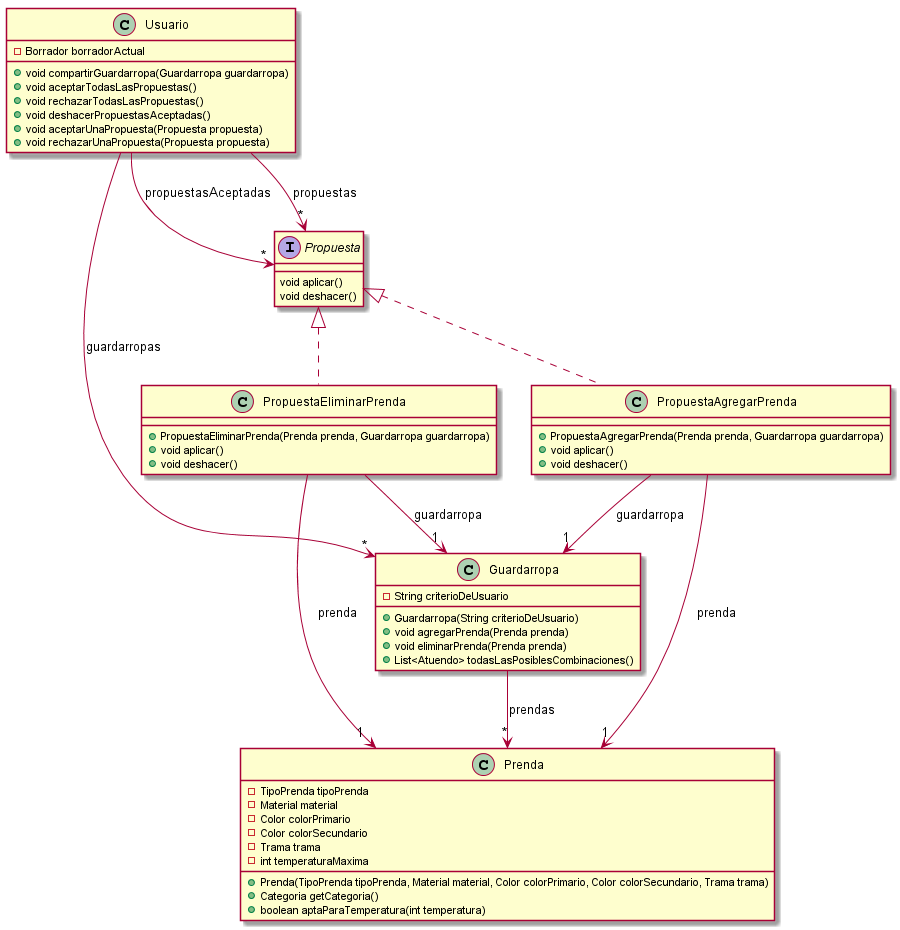
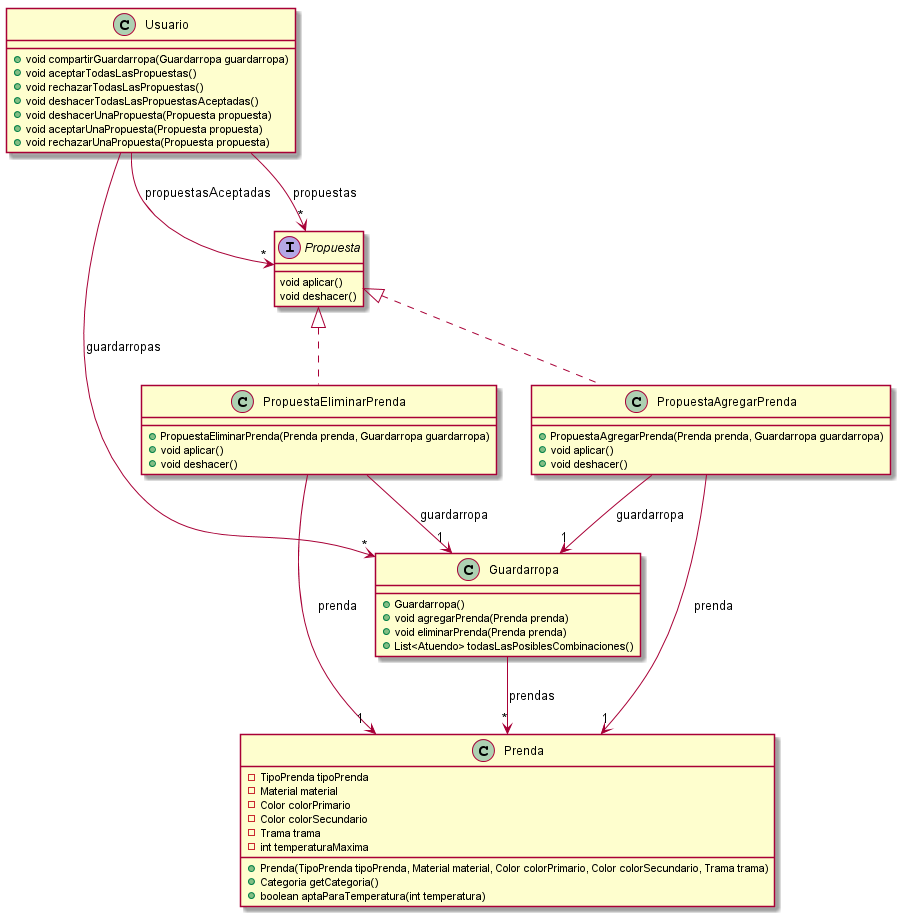
Actualizo diagrama

diff --git a/src/main/java/model/quintaIteracion/Diagrama.java b/src/main/java/model/quintaIteracion/Diagrama.java
@@ -6,60 +6,7 @@ public class Diagrama {
 
 /*
 @startuml
-class Guardarropa [[java:model.paraDiagrama.Guardarropa]] {
-	-String criterioDeUsuario
-	+Guardarropa(String criterioDeUsuario)
-	+void agregarPrenda(Prenda prenda)
-	+void eliminarPrenda(Prenda prenda)
-	+List<Atuendo> todasLasPosiblesCombinaciones()
-}
-class Prenda [[java:model.Prenda]] {
-}
-Guardarropa --> "*" Prenda : prendas
-interface Propuesta [[java:model.paraDiagrama.Propuesta]] {
-	void aplicar()
-	void deshacer()
-}
-class Prenda [[java:model.paraDiagrama.Prenda]] {
-	-TipoPrenda tipoPrenda
-	-Material material
-	-Color colorPrimario
-	-Color colorSecundario
-	-Trama trama
-	-int temperaturaMaxima
-	+Prenda(TipoPrenda tipoPrenda, Material material, Color colorPrimario, Color colorSecundario, Trama trama)
-	+Categoria getCategoria()
-	+boolean aptaParaTemperatura(int temperatura)
-}
-class PropuestaEliminarPrenda [[java:model.paraDiagrama.PropuestaEliminarPrenda]] {
-	+PropuestaEliminarPrenda(Prenda prenda, Guardarropa guardarropa)
-	+void aplicar()
-	+void deshacer()
-}
-class Prenda [[java:model.Prenda]] {
-}
-PropuestaEliminarPrenda --> "1" Prenda : prenda
-class Guardarropa [[java:model.quintaIteracion.Guardarropa]] {
-}
-PropuestaEliminarPrenda --> "1" Guardarropa : guardarropa
-interface Propuesta [[java:model.paraDiagrama.Propuesta]] {
-}
-Propuesta <|.. PropuestaEliminarPrenda
-class PropuestaAgregarPrenda [[java:model.paraDiagrama.PropuestaAgregarPrenda]] {
-	+PropuestaAgregarPrenda(Prenda prenda, Guardarropa guardarropa)
-	+void aplicar()
-	+void deshacer()
-}
-class Prenda [[java:model.Prenda]] {
-}
-PropuestaAgregarPrenda --> "1" Prenda : prenda
-class Guardarropa [[java:model.quintaIteracion.Guardarropa]] {
-}
-PropuestaAgregarPrenda --> "1" Guardarropa : guardarropa
-interface Propuesta [[java:model.paraDiagrama.Propuesta]] {
-}
-Propuesta <|.. PropuestaAgregarPrenda
-class Usuario [[java:model.paraDiagrama.Usuario]] {
+class Usuario [[java:model.quintaIteracion.Usuario]] {
 	+void compartirGuardarropa(Guardarropa guardarropa)
 	+void aceptarTodasLasPropuestas()
 	+void rechazarTodasLasPropuestas()
@@ -71,12 +18,64 @@ class Usuario [[java:model.paraDiagrama.Usuario]] {
 class Guardarropa [[java:model.quintaIteracion.Guardarropa]] {
 }
 Usuario --> "*" Guardarropa : guardarropas
-class Propuesta [[java:model.paraDiagrama.Propuesta]] {
+class Propuesta [[java:model.quintaIteracion.Propuesta]] {
 }
 Usuario --> "*" Propuesta : propuestas
-class Propuesta [[java:model.paraDiagrama.Propuesta]] {
+class Propuesta [[java:model.quintaIteracion.Propuesta]] {
 }
 Usuario --> "*" Propuesta : propuestasAceptadas
+class PropuestaAgregarPrenda [[java:model.quintaIteracion.PropuestaAgregarPrenda]] {
+	+PropuestaAgregarPrenda(Prenda prenda, Guardarropa guardarropa)
+	+void aplicar()
+	+void deshacer()
+}
+class Prenda [[java:model.prenda.Prenda]] {
+}
+PropuestaAgregarPrenda --> "1" Prenda : prenda
+class Guardarropa [[java:model.quintaIteracion.Guardarropa]] {
+}
+PropuestaAgregarPrenda --> "1" Guardarropa : guardarropa
+interface Propuesta [[java:model.quintaIteracion.Propuesta]] {
+}
+Propuesta <|.. PropuestaAgregarPrenda
+interface Propuesta [[java:model.quintaIteracion.Propuesta]] {
+	void aplicar()
+	void deshacer()
+}
+class PropuestaEliminarPrenda [[java:model.quintaIteracion.PropuestaEliminarPrenda]] {
+	+PropuestaEliminarPrenda(Prenda prenda, Guardarropa guardarropa)
+	+void aplicar()
+	+void deshacer()
+}
+class Prenda [[java:model.prenda.Prenda]] {
+}
+PropuestaEliminarPrenda --> "1" Prenda : prenda
+class Guardarropa [[java:model.quintaIteracion.Guardarropa]] {
+}
+PropuestaEliminarPrenda --> "1" Guardarropa : guardarropa
+interface Propuesta [[java:model.quintaIteracion.Propuesta]] {
+}
+Propuesta <|.. PropuestaEliminarPrenda
+class Guardarropa [[java:model.quintaIteracion.Guardarropa]] {
+	+Guardarropa()
+	+void agregarPrenda(Prenda prenda)
+	+void eliminarPrenda(Prenda prenda)
+	+List<Atuendo> todasLasPosiblesCombinaciones()
+}
+class Prenda [[java:model.prenda.Prenda]] {
+}
+Guardarropa --> "*" Prenda : prendas
+class Prenda [[java:model.quintaIteracion.Prenda]] {
+	-TipoPrenda tipoPrenda
+	-Material material
+	-Color colorPrimario
+	-Color colorSecundario
+	-Trama trama
+	-int temperaturaMaxima
+	+Prenda(TipoPrenda tipoPrenda, Material material, Color colorPrimario, Color colorSecundario, Trama trama)
+	+Categoria getCategoria()
+	+boolean aptaParaTemperatura(int temperatura)
+}
 @enduml
 
 */
